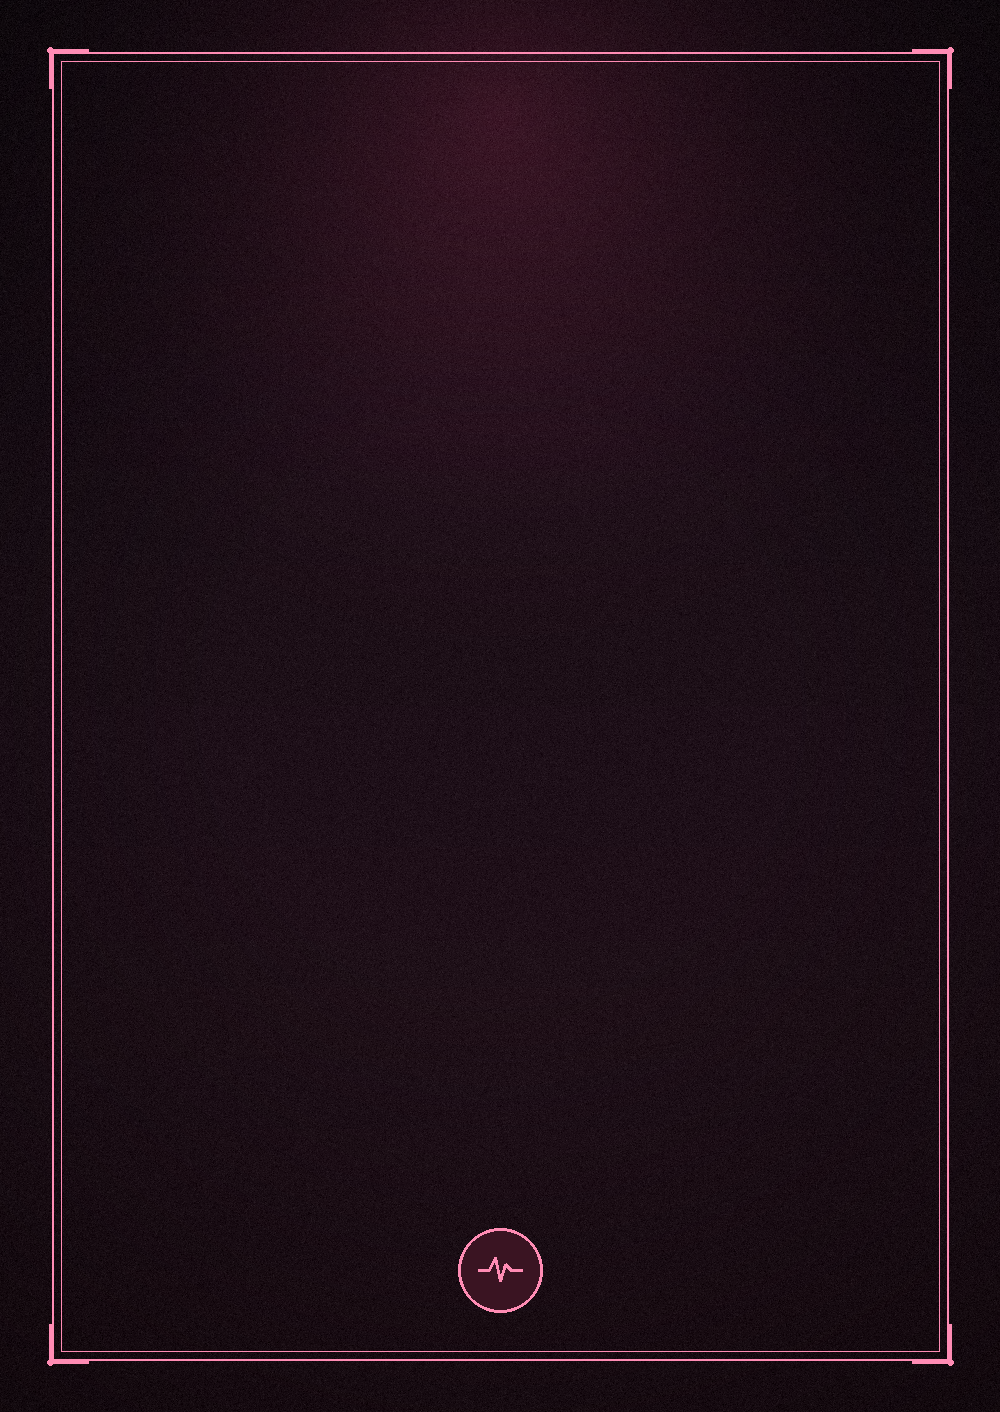
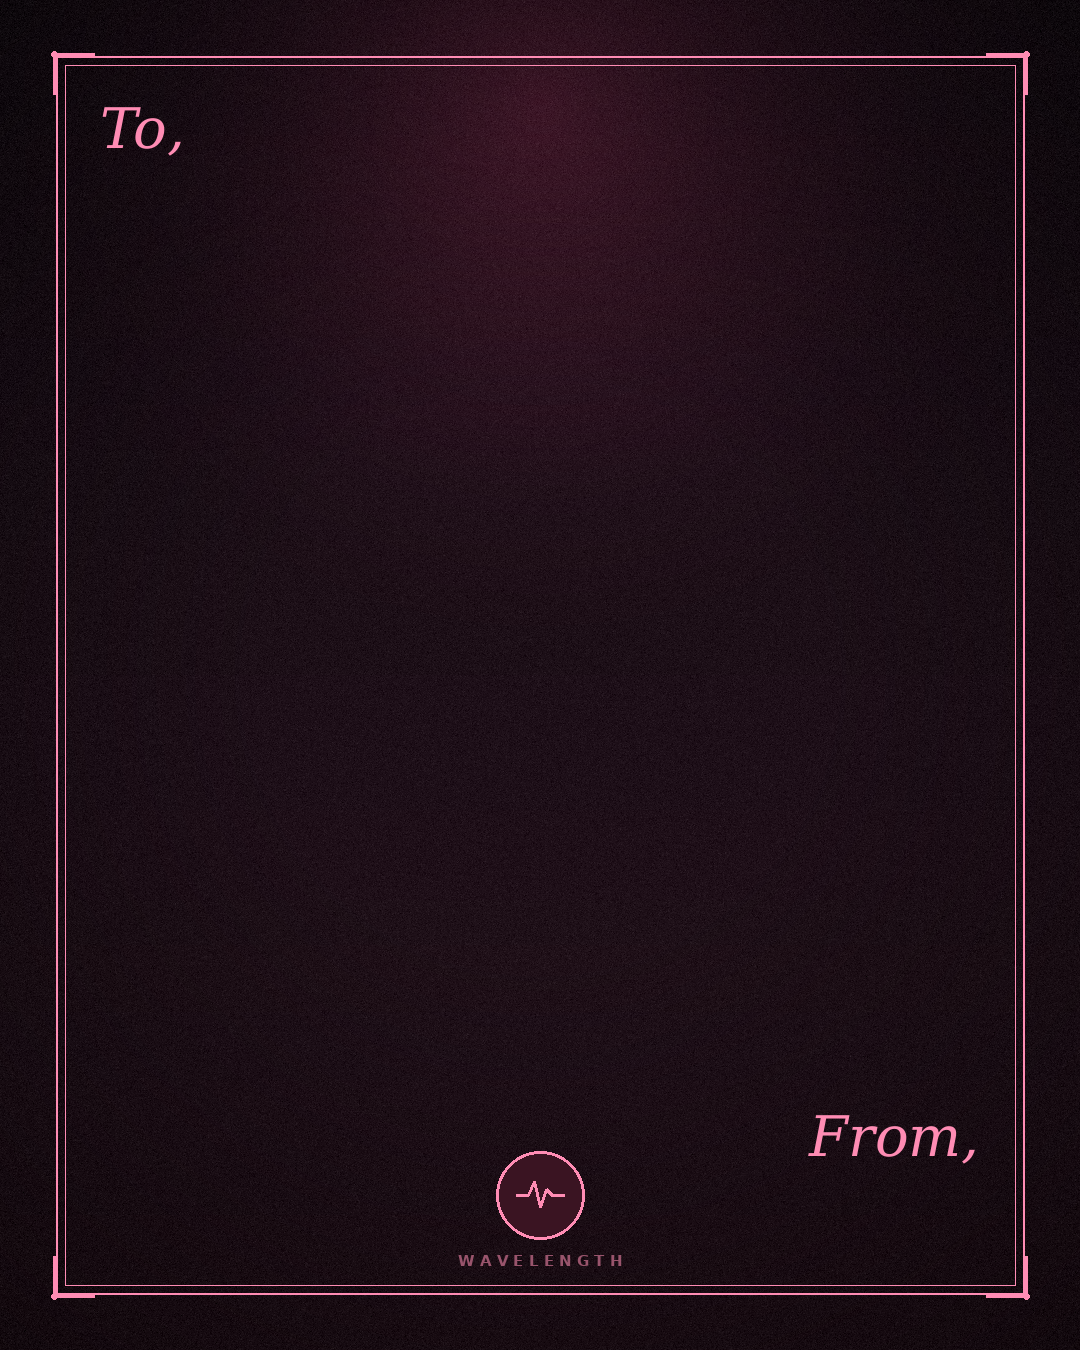
change preview12342

Changed region(s): [[0.031, 0.0311, 0.961, 0.9644], [0.744, 0.8089, 0.899, 0.8711]]

diff --git a/frontend/src/pages/template.css b/frontend/src/pages/template.css
@@ -1,90 +1,116 @@
-/* =========================================================
-   Wavelength — postcard template
-   This geometry MUST match Backend/src/templates/template.html
-   exactly (500x706, same offsets, same font-size) or the live
-   preview and the final generated image will disagree on how
-   the text fits. If you change one, change both.
-   ========================================================= */
-
 .template{
-  position: relative;
-  width: 500px;
-  height: 706px;
-  overflow: hidden;
-  background-size: cover;
-  background-position: center;
-  background-repeat: no-repeat;
-  font-family: 'Fraunces', serif;
-  border-radius: 18px;
-  box-shadow: 0 20px 50px -20px rgba(0,0,0,.6);
-  flex-shrink: 0;
-}
+      width:794px;
+      height:1123px;
 
-.template .to,
-.template .from{
-  position: absolute;
-  display: flex;
-  align-items: baseline;
-  gap: 6px;
-}
-.template .to{ top: 34px; left: 38px; }
-.template .from{ bottom: 46px; right: 38px; flex-direction: row-reverse; }
+      position:relative;
 
-.template .tpl-label{
+      background-image:url("{{BACKGROUND_IMAGE}}");
+
+      background-size:cover;
+      background-position:center;
+      background-repeat:no-repeat;
+
+      overflow:hidden;
+    }
+
+    .previewTo{
+      font-family:'Lilita One', cursive;
+
+      position:absolute;
+
+      top:11%;
+      left:14.3%;
+
+      margin:0;
+
+      font-size:19px;
+
+      opacity:0.85;
+
+      letter-spacing:1px;
+    }
+
+    .message{
+  position:absolute;
+      font-weight:400;
+  top:17%;
+  left:16%;
+
+  width:70%;
+  height:69%;
+
+  font-family:'League Spartan', sans-serif;
+
+  text-align:center;
+
+  overflow:hidden;
+
+  white-space:pre-wrap;
+  word-break:break-word;
+
+  line-height:1.8;
+
+  font-size:42px;
+
+  display:block;
+  box-sizing:border-box;
+}.message {
+  position:absolute;
+  font-weight:400;
   font-style: italic;
-  font-weight: 500;
-  font-size: 19px;
   color: #F3F1F8;
-  opacity: .8;
-  white-space: nowrap;
+
+  top:17%;
+  left:16%;
+
+  width:70%;
+  height:100%;
+
+  font-family:'League Spartan', sans-serif;
+
+  text-align:center;
+  overflow:hidden;
+
+  white-space:pre-wrap;
+  word-break:break-word;
+
+  line-height:1.8;
+  font-size:42px;
+
+  display:flex;
+  align-items:center;
+  justify-content:center;
+
+  box-sizing:border-box;
 }
 
-.template .previewTo,
-.template .previewFrom{
-  font-style: italic;
-  font-weight: 500;
-  font-size: 19px;
-  color: #F3F1F8;
-  max-width: 260px;
-  white-space: nowrap;
-  overflow: hidden;
-  text-overflow: ellipsis;
-}
+    .previewFrom{
+      font-family:'Lilita One', cursive;
 
-.template .message{
-  position: absolute;
-  left: 52px;
-  right: 52px;
-  top: 118px;
-  bottom: 150px;
-  display: flex;
-  align-items: center;
-  justify-content: center;
-  text-align: center;
-  font-style: italic;
-  color: #F3F1F8;
-  white-space: pre-wrap;
-  word-break: break-word;
-  overflow: hidden;
-}
+      opacity:0.85;
+      color: #F3F1F8;
 
-/* =========================================================
-   Responsive display only. transform:scale() never changes
-   clientWidth/clientHeight, so pageGenerator.js still measures
-   a true 500x706 box every time — only the pixels on screen
-   shrink to fit a phone. The negative margin collapses the
-   blank space transform leaves behind in normal document flow.
-   ========================================================= */
-#previewWrapper{
-  --pc-scale: min(1, calc((100vw - 48px) / 500px));
-  display: flex;
-  flex-direction: column;
-  align-items: center;
-  gap: 18px;
-  width: 100%;
-}
-#previewWrapper .template{
-  transform: scale(var(--pc-scale));
-  transform-origin: top center;
-  margin-bottom: calc(-706px * (1 - var(--pc-scale)));
-}
+      margin:0;
+
+      text-align:center;
+
+      white-space:pre-line;
+      word-break:break-word;
+
+      line-height:1;
+
+      letter-spacing:1px;
+
+      font-size:22px;
+    }
+
+    .from{
+      position:absolute;
+
+      top:91%;
+      left:77.5%;
+
+      transform:translateX(-50%);
+
+      width:260px;
+    }

diff --git a/Backend/src/templates/template.html b/Backend/src/templates/template.html
@@ -87,6 +87,8 @@
 }.message {
   position:absolute;
   font-weight:400;
+  font-style: italic;
+  color: #F3F1F8;
 
   top:17%;
   left:16%;
@@ -116,6 +118,7 @@
       font-family:'Lilita One', cursive;
 
       opacity:0.85;
+      color: #F3F1F8;
 
       margin:0;
 
